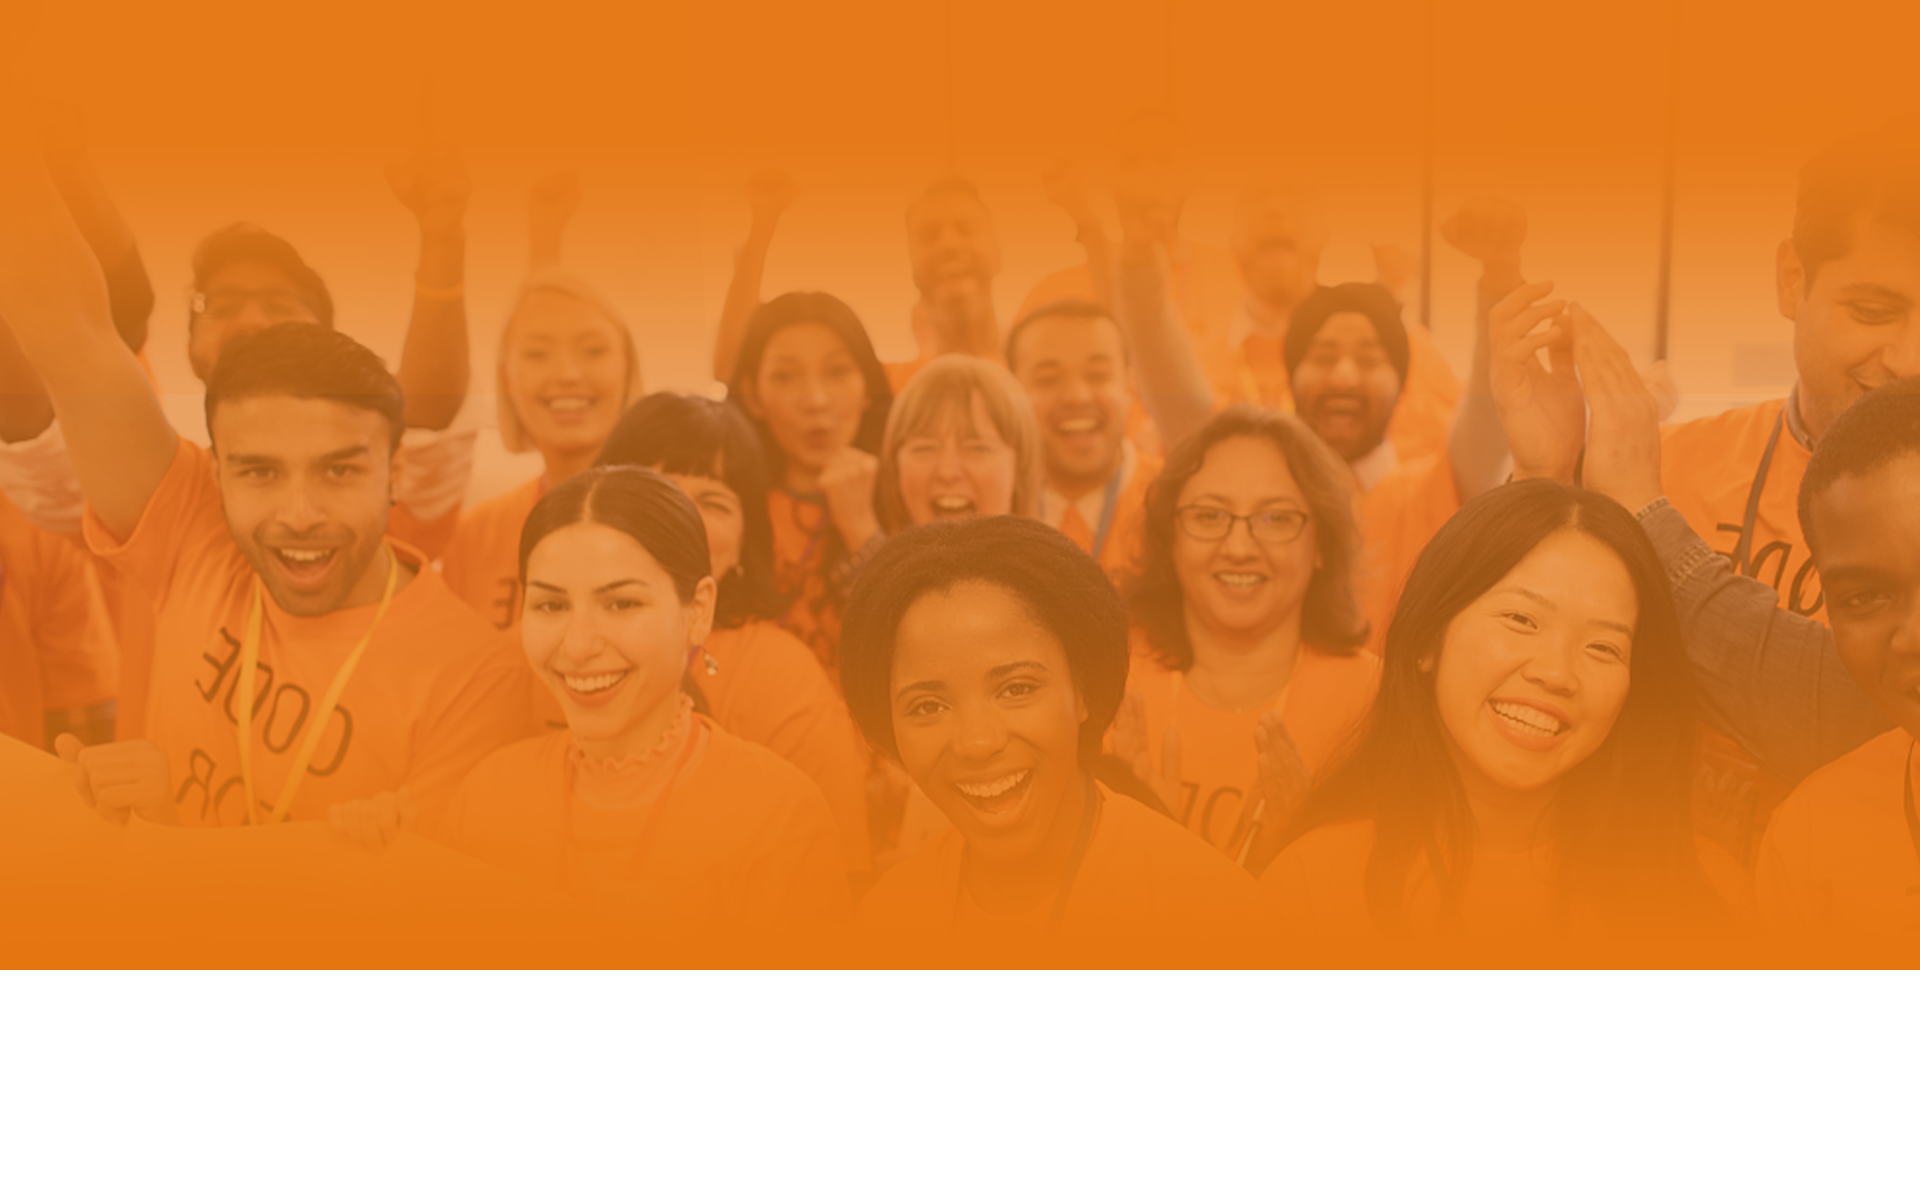
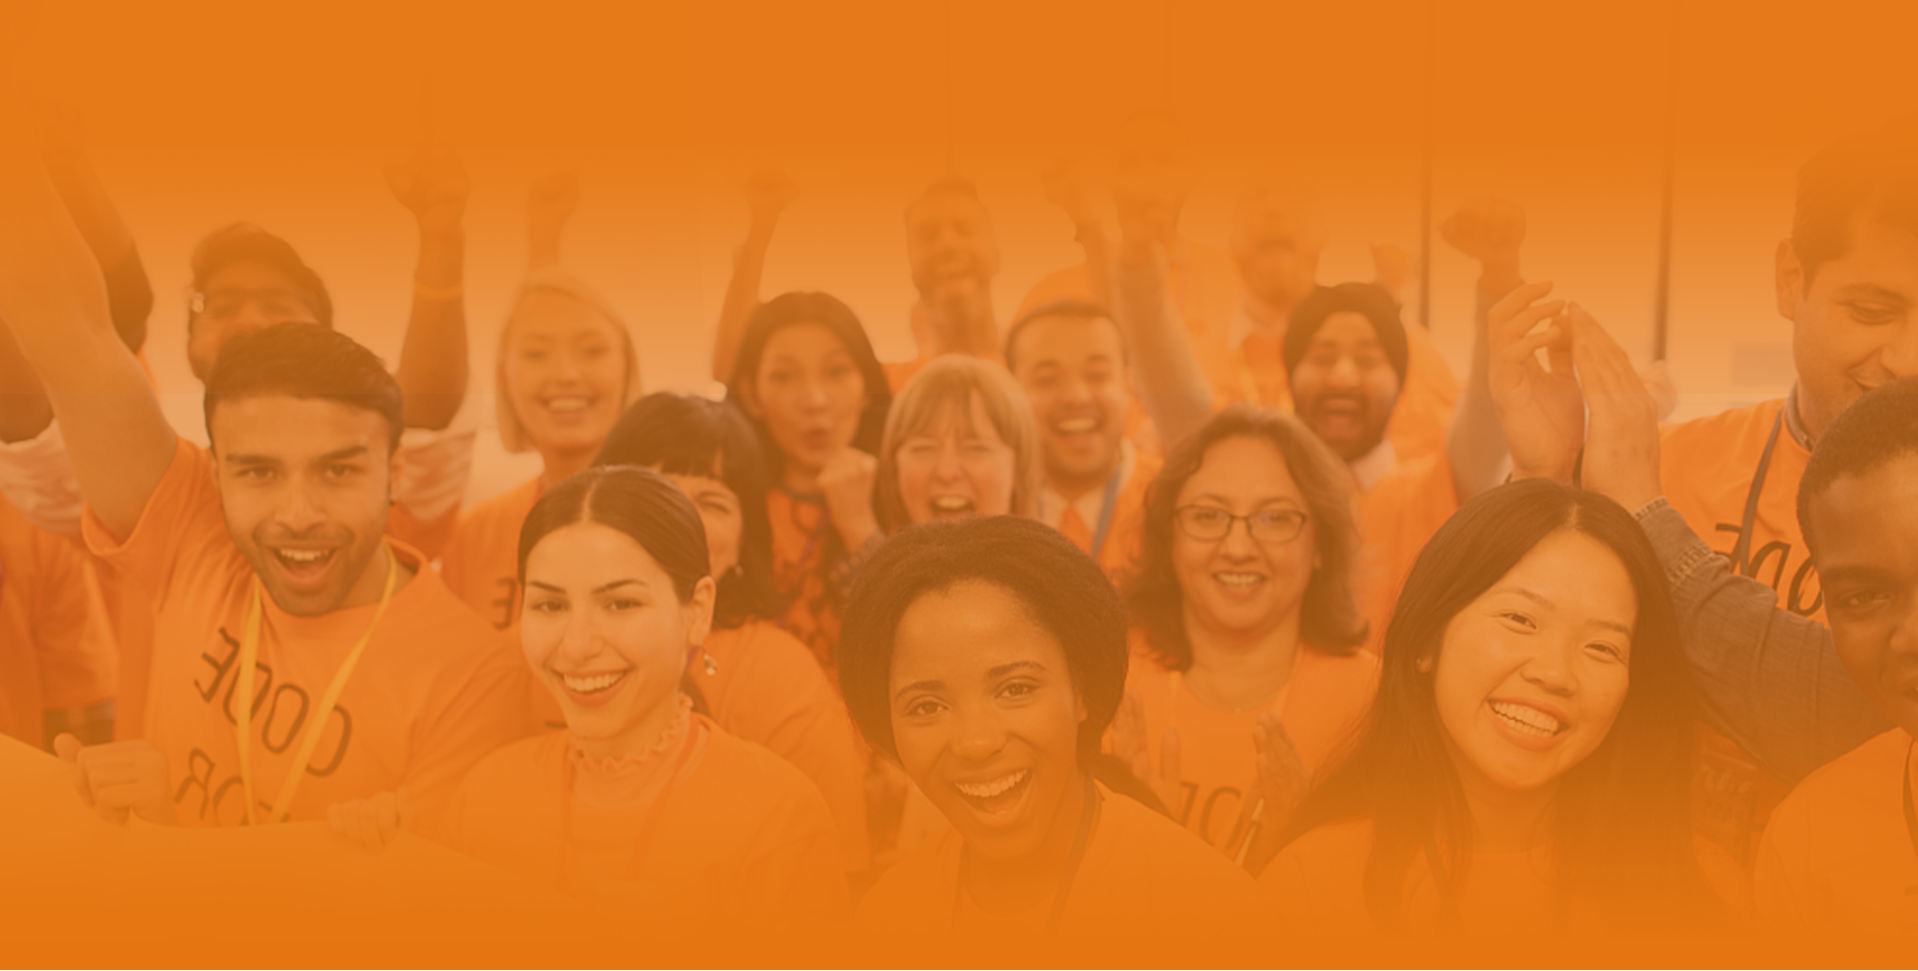
Draft version 0515_1 of homepage

diff --git a/src/views/Homepage.v2.vue b/src/views/Homepage.v2.vue
@@ -20,18 +20,18 @@
                     Anyone who is experiencing homeless can search these location surround themselves.
                   </p>
                   <div class="flex-wrap flex-center-align">
-                    <b-button class="flex-wrap-item clear-style icon-button">
+                    <button @click="gotoSlide(1)" class="flex-wrap-item icon-button">
                       <img :src="require('@/assets/top_helphls_button.png')" width="64px">
                       <p>Help Homeless</p>
-                    </b-button>
-                    <b-button class="flex-wrap-item clear-style icon-button">
+                    </button>
+                    <button @click="gotoSlide(2)" class="flex-wrap-item icon-button">
                       <img :src="require('@/assets/top_seekhelp_button.png')" width="64px">
                       <p>Seek of Help</p>
-                    </b-button>
-                    <b-button class="flex-wrap-item clear-style icon-button">
+                    </button>
+                    <button @click="gotoSlide(3)" class="flex-wrap-item icon-button">
                       <img :src="require('@/assets/top_contact_button.png')" width="64px">
                       <p>Contact us</p>
-                    </b-button>
+                    </button>
                   </div>
                 </b-col>
               </b-row>
@@ -121,16 +121,14 @@ export default {
 				direction: 'vertical',
 				slidesPerView: 1,
 				spaceBetween: 0,
-				overflow: 'auto'
-			},
-			pageWidth: 1024
+				overflow: 'auto',
+				sliderDrag: false
+			}
 		}
 	},
 	mounted () {
 		this.swiper.on('slideChange', this.toggleNavbarStyle)
-		this.navbar.setToOrangeMode()
-		this.pageWidth = document.body.clientWidth
-		setInterval(() => { this.pageWidth = document.body.clientWidth }, 1000)
+		setTimeout(() => this.navbar.setToOrangeMode(), 250)
 	},
 	computed: {
 		swiper () {
@@ -147,9 +145,6 @@ export default {
 		}
 	},
 	watch: {
-		pageWidth (newVal, oldVal) {
-			window.console.log(`pageWidth watcher: ${newVal}, ${oldVal}`)
-		}
 	},
 	methods: {
 		toggleNavbarStyle: function () {
@@ -167,6 +162,12 @@ export default {
 			var containerDom = document.getElementById('tiles-container')
 			var containerWidth = window.getComputedStyle(containerDom).width
 			return containerWidth
+		},
+		gotoSlide: function (n) {
+			if (n < 0 || n > 3) {
+				window.console.error('index cannot smaller than 0 or greater than 3')
+			}
+			this.swiper.slideTo(n)
 		}
 	}
 }
@@ -182,8 +183,12 @@ export default {
   border: unset;
 }
 .icon-button {
+  padding: 1rem 0.5rem 1rem 0.5rem;
   background: transparent;
   color: white;
+  border: 0 solid white;
+  border-radius: 8px;
+  transition: color 0.25s, background-color 0.25s;
 }
 .icon-button:hover {
   background: white;
@@ -227,6 +232,9 @@ export default {
 }
 #top-section {
   background-image: url('~@/assets/top_bg.png');
+  background-repeat: no-repeat;
+  background-position: center;
+  background-size: cover;
 }
 #help-homeless-section {
   background: rgba(245,246,249,1);

diff --git a/src/components/Nav.vue b/src/components/Nav.vue
@@ -16,7 +16,7 @@
       <b-navbar-toggle target="nav-menu-collapse"></b-navbar-toggle>
       <b-collapse ref="toggle-nav" id="nav-menu-collapse" is-nav>
         <b-navbar-nav class="ml-auto">
-          <b-nav-item :to="'/'">Welcome to MatesHelp</b-nav-item>
+          <b-nav-item :to="'/'">Home</b-nav-item>
           <b-nav-item :to="'/'">Help Homeless</b-nav-item>
           <b-nav-item-dropdown text="Seek of Help">
             <b-dropdown-item :to="'/itr2/essential'">Essential Services</b-dropdown-item>
@@ -26,7 +26,6 @@
             <b-dropdown-item :to="'/itr2/community'">Community Services</b-dropdown-item>
           </b-nav-item-dropdown>
           <b-nav-item :to="'/'">Contact us</b-nav-item>
-          <b-nav-item :to="'/newhome'">New homepage</b-nav-item>
         </b-navbar-nav>
       </b-collapse>
     </b-navbar>
@@ -45,7 +44,7 @@ export default {
 			},
 			themeStatus: 'light',
 			themeStyle: 'mateshelp-light',
-			navTextColor: 'dark'
+			navTextColor: 'light'
 		}
 	},
 	mounted () {
@@ -92,25 +91,18 @@ export default {
 <style>
 #navbar-wrap {
   padding: 2vh 2vw 0vh 2vw;
-  /* position: sticky; */
+  position: sticky;
   top: 0;
   /* width: 100vw; */
   z-index: 99999;
   box-sizing: border-box;
-  /* background-color: rgba(237,121,28,0.2); */
   font-size: 1.15rem;
 }
 .mateshelp-light {
   background-color: rgba(255,255,255,1);
   box-shadow: 0px 8px 16px 0px rgba(180, 180, 180, 0.5);
 }
-.mateshelp-light * {
-  color: black;
-}
 .mateshelp-orange {
   background-color: rgba(243,121,30,1);
 }
-/* .mateshelp-transparent {
-  background-color: rgba(0,0,0,0);
-} */
 </style>

diff --git a/src/router.js b/src/router.js
@@ -3,7 +3,8 @@ import VueRouter from 'vue-router'
 import Home from '@/views/Home.vue'
 import SearchList from '@/components/SearchList.vue'
 import Detail from '@/views/Detail.vue'
-import Homepage from '@/views/HomePage.vue'
+// import Homepage from '@/views/HomePage.vue'
+import Homepage from '@/views/Homepage.v2.vue'
 
 Vue.use(VueRouter)
 
@@ -28,6 +29,11 @@ const routes = [
 		]
 	},
 	{
+		path: '/itr2',
+		name: 'homepage',
+		component: Homepage
+	},
+	{
 		path: '/itr2/:problem',
 		name: 'problem-home',
 		component: () => import('./views/ProblemHome.vue')
@@ -43,7 +49,7 @@ const routes = [
 	{
 		path: '/newhome',
 		name: 'new-home',
-		component: () => import('./views/Homepage.v2.vue')
+		component: Homepage
 	}
 ]
 

diff --git a/src/components/TopicTile.vue b/src/components/TopicTile.vue
@@ -50,13 +50,16 @@ export default {
 	},
 	data () {
 		return {
-			wrapWidth: 1024
+			wrapWidth: 1024,
+			wrapHeight: 576
 		}
 	},
 	mounted () {
 		this.wrapWidth = this.$parent.$el.clientWidth
+		this.wrapHeight = this.$parent.$el.clientHeight
 		window.addEventListener('resize', () => {
 			this.wrapWidth = this.$parent.$el.clientWidth
+			this.wrapHeight = this.$parent.$el.clientHeight
 		})
 	},
 	computed: {
@@ -67,7 +70,7 @@ export default {
 			return '@/assets/' + this.iconImage + '@2x.png'
 		},
 		mobile: function () {
-			return this.wrapWidth < 576
+			return this.wrapWidth < this.wrapHeight
 		}
 	},
 	methods: {

diff --git a/src/views/ProblemHome.vue b/src/views/ProblemHome.vue
@@ -1,5 +1,5 @@
 <template>
-  <div>
+  <div id="problem-subpage">
     <b-container id="head-content">
       <b-row class="mb-4">
         <SubhomeBanner :title="topic" :subtitle="'some subtitle'" :bgImg="bg"/>
@@ -39,7 +39,7 @@ export default {
 
 	},
 	mounted () {
-		this.navbar.setToLightMode()
+		setTimeout(() => this.navbar.setToLightMode(), 250)
 	},
 	computed: {
 		navbar () {
@@ -58,6 +58,9 @@ export default {
 </script>
 
 <style>
+#problem-subpage {
+	margin-top: 1rem;
+}
 #head-content {
   height: calc(100vh - 56px);
 }

diff --git a/src/App.vue b/src/App.vue
@@ -15,9 +15,7 @@ export default {
 		Nav
 	},
 	mounted () {
-		// window.console.log(this.$refs.navbar)
 		this.$store.dispatch('locations/setNavbar', this.$refs.navbar)
-		// window.addEventListener('resize', function (e) { this.pageWidth = e.target.innerWidth })
 	},
 	data () {
 		return {
